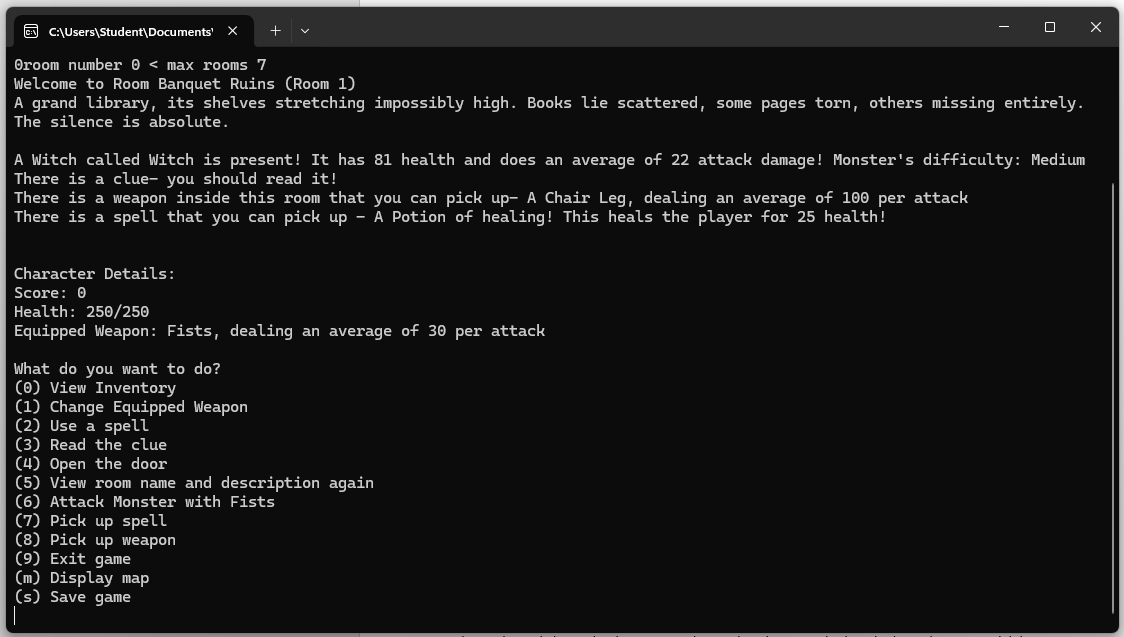
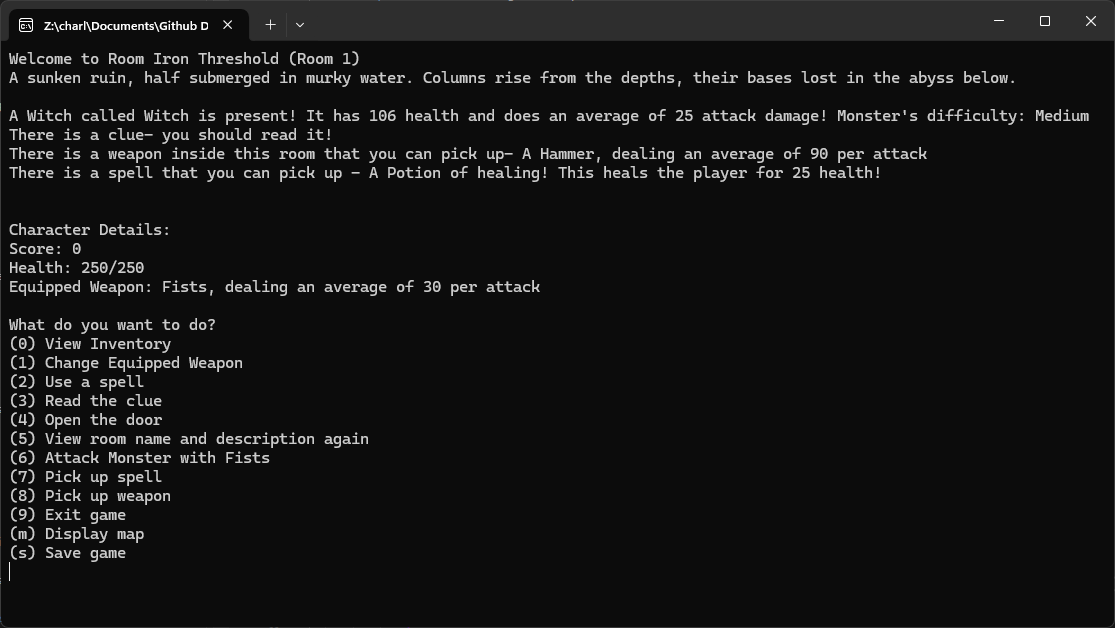
New Screenshots, Remove Print Debug

Changed region(s): [[0.0, 0.0, 1.0, 1.0]]

diff --git a/Game.cs b/Game.cs
@@ -49,15 +49,16 @@ namespace DungeonExplorer
             {
                 //Create a new game
                 CreateNewGameState();
+                Console.Clear();
             }
             else
             {
                 //Load the game from a file
                 LoadGameStateFromFile();
+                Console.Clear();
             }
             while (_roomNumber < _numberOfRooms)
             {
-                Console.WriteLine($"room number {_roomNumber} < max rooms {_numberOfRooms}");
                 _currentRoom = _rooms[_roomNumber];
                 if (_currentRoom is MonsterRoom monsterRoom)
                 {
